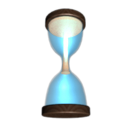
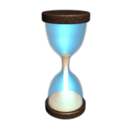
Improve idle animations, update assets and header style
Replace numerous menu misc PNG assets and refactor idle/click behavior and styling. Sprite idle animations now use timed blink cycles with configurable hold/frame delays (use setTimeout instead of setInterval) and properly clear timers; card idle animations also use randomized hold times and step-based playback. Click handling updated to ignore disabled buttons and to trigger the speaking pose on first selection click. Adjusted .titlebar-brand span styling (font weight, size, letter spacing, uppercase and accent color). Binary image files were updated as part of the visual refresh.

Changed region(s): [[0.3125, 0.0625, 0.7188, 0.9375]]

diff --git a/renderer.js b/renderer.js
@@ -375,6 +375,9 @@ class SpriteRenderer {
     this.idleStartTimeout = null;
     this.idleDirection = 1;
     this.idleFrameDelay = 120;
+    this.idleBlinkHoldMin = 1800;
+    this.idleBlinkHoldMax = 4200;
+    this.idleBlinkFrameDelay = 75;
 
     this.speakTimer = null;
   }
@@ -421,16 +424,35 @@ class SpriteRenderer {
     this.frameIndex = 0;
     this.idleDirection = 1;
     this.showFrame(this.idleFrames, 0);
+    if (!this.idleFrames.length) return;
+    const last = Math.max(0, this.idleFrames.length - 1);
 
-    this.idleTimer = setInterval(() => {
-      this.frameIndex += this.idleDirection;
-      if (this.frameIndex >= IDLE_FRAME_COUNT - 1) {
-        this.idleDirection = -1;
-      } else if (this.frameIndex <= 0) {
-        this.idleDirection = 1;
-      }
-      this.showFrame(this.idleFrames, this.frameIndex);
-    }, this.idleFrameDelay);
+    const playBlinkCycle = () => {
+      let idx = 1;
+      let dir = 1;
+      const step = () => {
+        if (!this.mode || this.mode !== 'idle') return;
+        this.frameIndex = idx;
+        this.showFrame(this.idleFrames, idx);
+        if (idx >= last) dir = -1;
+        idx += dir;
+        if (idx <= 0) {
+          this.frameIndex = 0;
+          this.showFrame(this.idleFrames, 0);
+          scheduleNextBlink();
+          return;
+        }
+        this.idleTimer = setTimeout(step, this.idleBlinkFrameDelay);
+      };
+      this.idleTimer = setTimeout(step, this.idleBlinkFrameDelay);
+    };
+
+    const scheduleNextBlink = () => {
+      const hold = this.idleBlinkHoldMin + Math.floor(Math.random() * (this.idleBlinkHoldMax - this.idleBlinkHoldMin + 1));
+      this.idleTimer = setTimeout(playBlinkCycle, hold);
+    };
+
+    scheduleNextBlink();
   }
 
   startIdleAfterDelay(delayMs) {
@@ -557,7 +579,7 @@ class SpriteRenderer {
     this.stopSpeaking();
     this.clearIdleStartTimeout();
     if (this.idleTimer) {
-      clearInterval(this.idleTimer);
+      clearTimeout(this.idleTimer);
       this.idleTimer = null;
     }
   }
@@ -606,13 +628,32 @@ function startCardIdleAnim(charId) {
   state.frameIndex = 0;
   state.direction = 1;
   setCardFrame(state, frames, state.frameIndex);
-  state.timer = setInterval(() => {
+  const last = Math.max(0, frames.length - 1);
+  const schedule = () => {
+    const hold = 1500 + Math.floor(Math.random() * 2200);
+    state.timer = setTimeout(playCycle, hold);
+  };
+  const playCycle = () => {
     if (state.mode !== 'idle') return;
-    state.frameIndex += state.direction;
-    if (state.frameIndex >= frames.length - 1) state.direction = -1;
-    else if (state.frameIndex <= 0) state.direction = 1;
-    setCardFrame(state, frames, state.frameIndex);
-  }, 120);
+    let idx = 1;
+    let dir = 1;
+    const step = () => {
+      if (state.mode !== 'idle') return;
+      state.frameIndex = idx;
+      setCardFrame(state, frames, state.frameIndex);
+      if (idx >= last) dir = -1;
+      idx += dir;
+      if (idx <= 0) {
+        state.frameIndex = 0;
+        setCardFrame(state, frames, 0);
+        schedule();
+        return;
+      }
+      state.timer = setTimeout(step, 80);
+    };
+    state.timer = setTimeout(step, 80);
+  };
+  schedule();
 }
 
 function startCardSpeakThenIdle(charId) {
@@ -743,8 +784,11 @@ function buildCharacterGrid() {
     });
 
     btn.addEventListener('click', () => {
-      if (!btn.disabled) startCardSpeakThenIdle(char.id);
+      if (btn.disabled) return;
+      const wasActive = selectedCharacter?.id === char.id;
       selectCharacter(char);
+      // Trigger speaking pose immediately on first selection click.
+      if (!wasActive) startCardSpeakThenIdle(char.id);
     });
 
     elCharGrid.appendChild(btn);

diff --git a/style.css b/style.css
@@ -121,11 +121,11 @@ body {
 }
 
 .titlebar-brand span {
-  font-family: 'Over the Rainbow', cursive;
-  font-size: 20px;
-  font-weight: 400;
-  letter-spacing: 1.2px;
-  color: #d0d0d0;
+  font-size: 13px;
+  font-weight: 800;
+  letter-spacing: 5px;
+  text-transform: uppercase;
+  color: var(--accent);
   text-shadow: 0 1px 3px rgba(0, 0, 0, 0.7);
 }
 
